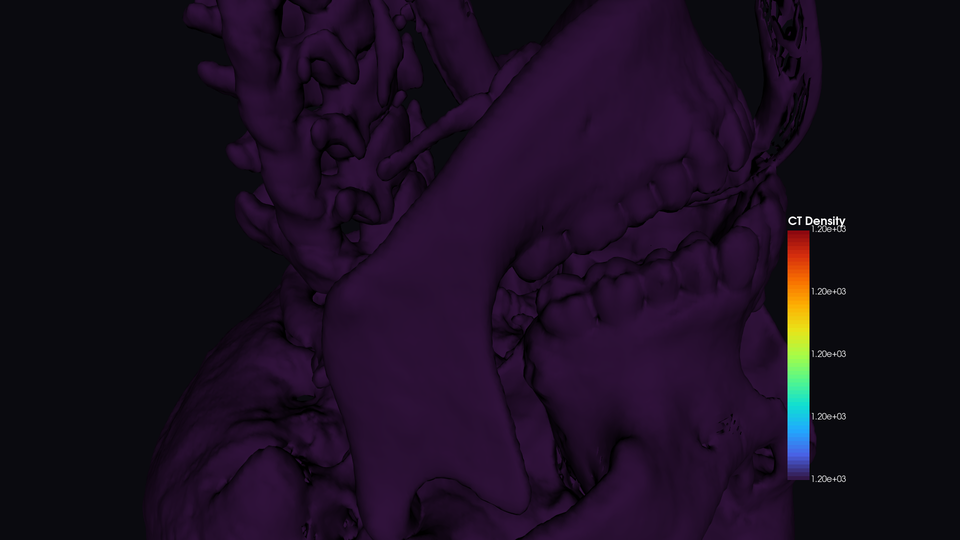
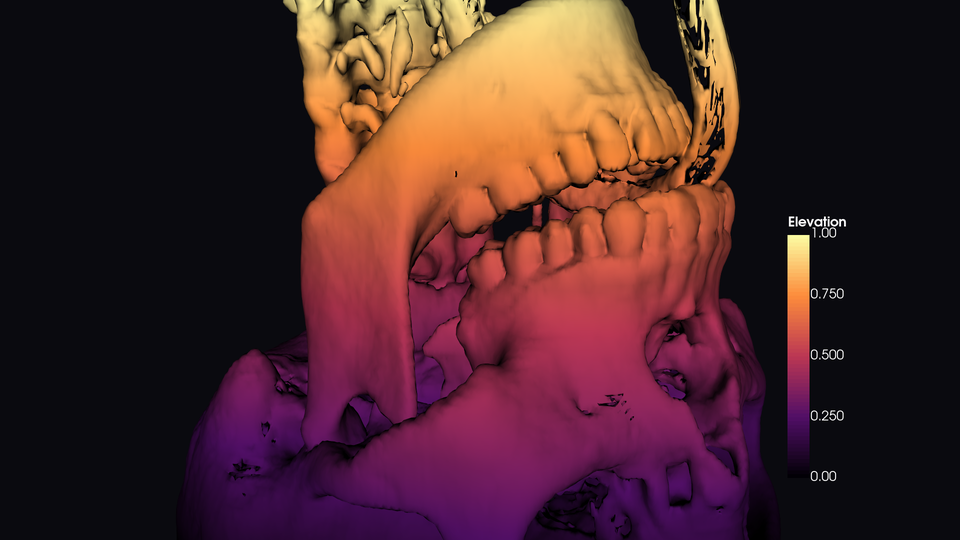
feat: add streamlines and clip showcases, improve CT skull render
- Add carotid blood flow streamlines with tube filter (Turbo colormap)
- Add Armadillo clip at X-plane with Viridis elevation gradient
- Improve CT skull: Elevation + Inferno instead of flat CT density
- Remove weak cfd_temperature render (nearly all blue)
- Update generate_showcase.py with carotid.vtk and Armadillo.ply datasets
- Showcase now covers 5 tools: render, contour, streamlines, clip, slice

diff --git a/scripts/generate_showcase.py b/scripts/generate_showcase.py
@@ -23,103 +23,17 @@ VTK_DATA_URL = "https://raw.githubusercontent.com/pyvista/vtk-data/master/Data"
 # Files to download
 DATA_FILES = [
     "cow.vtp",
-    "bunny.ply",
     "dragon.ply",
     "head.vti",
     "disk_out_ref_surface.vtp",
-    "Human.vtp",
+    "carotid.vtk",
+    "Armadillo.ply",
 ]
 
 # Each render is a standalone Python snippet executed in its own process.
 
 RENDERS: dict[str, str] = {
-    # 1. CFD: disk_out_ref temperature field
-    "cfd_temperature": textwrap.dedent("""\
-        import vtk
-        from parapilot.engine.filters import apply_filter
-        from parapilot.engine.renderer import RenderConfig, render_to_png
-        from parapilot.engine.camera import CameraConfig
-
-        reader = vtk.vtkXMLPolyDataReader()
-        reader.SetFileName(DATA_DIR + '/disk_out_ref_surface.vtp')
-        reader.Update()
-        data = reader.GetOutput()
-
-        cam = CameraConfig(position=(25.0, 20.0, 28.0), focal_point=(0, 0, 0), view_up=(0, 0, 1))
-        cfg = RenderConfig(
-            width=1920, height=1080, background=(0.04, 0.04, 0.06),
-            colormap='cool to warm', array_name='Temp',
-            show_scalar_bar=True, scalar_bar_title='Temperature',
-        )
-        PNG = render_to_png(data, cfg, cam)
-    """),
-
-    # 2. CFD: disk_out_ref pressure field
-    "cfd_pressure": textwrap.dedent("""\
-        import vtk
-        from parapilot.engine.filters import apply_filter
-        from parapilot.engine.renderer import RenderConfig, render_to_png
-        from parapilot.engine.camera import CameraConfig
-
-        reader = vtk.vtkXMLPolyDataReader()
-        reader.SetFileName(DATA_DIR + '/disk_out_ref_surface.vtp')
-        reader.Update()
-        data = reader.GetOutput()
-
-        cam = CameraConfig(position=(-22.0, 24.0, 22.0), focal_point=(0, 0, 0), view_up=(0, 0, 1))
-        cfg = RenderConfig(
-            width=1920, height=1080, background=(0.04, 0.04, 0.06),
-            colormap='viridis', array_name='Pres',
-            show_scalar_bar=True, scalar_bar_title='Pressure',
-        )
-        PNG = render_to_png(data, cfg, cam)
-    """),
-
-    # 3. Medical: head CT slice
-    "ct_head_slice": textwrap.dedent("""\
-        import vtk
-        from parapilot.engine.filters import apply_filter
-        from parapilot.engine.renderer import RenderConfig, render_to_png
-        from parapilot.engine.camera import CameraConfig
-
-        reader = vtk.vtkXMLImageDataReader()
-        reader.SetFileName(DATA_DIR + '/head.vti')
-        reader.Update()
-        data = reader.GetOutput()
-
-        sliced = apply_filter(data, 'slice', origin=[128, 128, 93], normal=[0, 0, 1])
-        cam = CameraConfig(position=(128, 128, 400), focal_point=(128, 128, 93), view_up=(0, 1, 0))
-        cfg = RenderConfig(
-            width=1920, height=1080, background=(0.04, 0.04, 0.06),
-            colormap='grayscale', array_name='Scalars_',
-            show_scalar_bar=True, scalar_bar_title='CT Density',
-        )
-        PNG = render_to_png(sliced, cfg, cam)
-    """),
-
-    # 4. Medical: head CT contour (skull isosurface)
-    "ct_head_contour": textwrap.dedent("""\
-        import vtk
-        from parapilot.engine.filters import apply_filter
-        from parapilot.engine.renderer import RenderConfig, render_to_png
-        from parapilot.engine.camera import CameraConfig
-
-        reader = vtk.vtkXMLImageDataReader()
-        reader.SetFileName(DATA_DIR + '/head.vti')
-        reader.Update()
-        data = reader.GetOutput()
-
-        contoured = apply_filter(data, 'contour', array_name='Scalars_', values=[1200])
-        cam = CameraConfig(position=(350, 200, 250), focal_point=(128, 128, 93), view_up=(0, 0, 1))
-        cfg = RenderConfig(
-            width=1920, height=1080, background=(0.04, 0.04, 0.06),
-            colormap='turbo', array_name='Scalars_',
-            show_scalar_bar=True, scalar_bar_title='CT Density',
-        )
-        PNG = render_to_png(contoured, cfg, cam)
-    """),
-
-    # 5. Geometry: Stanford Dragon with Elevation
+    # 1. Geometry: Stanford Dragon with Elevation (FEATURED)
     "dragon": textwrap.dedent("""\
         import vtk
         from parapilot.engine.renderer import RenderConfig, render_to_png
@@ -150,7 +64,156 @@ RENDERS: dict[str, str] = {
         PNG = render_to_png(elev.GetOutput(), cfg, cam)
     """),
 
-    # 6. Geometry: Cow with Elevation
+    # 2. Medical: CT skull isosurface with Inferno + Elevation
+    "ct_head_contour": textwrap.dedent("""\
+        import vtk
+        from parapilot.engine.filters import apply_filter
+        from parapilot.engine.renderer import RenderConfig, render_to_png
+        from parapilot.engine.camera import CameraConfig
+
+        reader = vtk.vtkXMLImageDataReader()
+        reader.SetFileName(DATA_DIR + '/head.vti')
+        reader.Update()
+        data = reader.GetOutput()
+
+        contoured = apply_filter(data, 'contour', array_name='Scalars_', values=[1200])
+        norms = vtk.vtkPolyDataNormals()
+        norms.SetInputData(contoured)
+        norms.ComputePointNormalsOn()
+        norms.SplittingOff()
+        norms.Update()
+
+        elev = vtk.vtkElevationFilter()
+        elev.SetInputConnection(norms.GetOutputPort())
+        b = contoured.GetBounds()
+        elev.SetLowPoint(0, 0, b[4])
+        elev.SetHighPoint(0, 0, b[5])
+        elev.Update()
+
+        cam = CameraConfig(position=(350, 350, 180), focal_point=(128, 128, 93), view_up=(0, 0, 1))
+        cfg = RenderConfig(
+            width=1920, height=1080, background=(0.04, 0.04, 0.06),
+            colormap='inferno', array_name='Elevation',
+            show_scalar_bar=True, scalar_bar_title='Elevation',
+        )
+        PNG = render_to_png(elev.GetOutput(), cfg, cam)
+    """),
+
+    # 3. Flow: Carotid blood flow streamlines with tubes
+    "streamlines": textwrap.dedent("""\
+        import vtk
+        from parapilot.engine.filters import streamlines
+        from parapilot.engine.renderer import RenderConfig, render_to_png
+        from parapilot.engine.camera import CameraConfig
+
+        reader = vtk.vtkStructuredPointsReader()
+        reader.SetFileName(DATA_DIR + '/carotid.vtk')
+        reader.Update()
+        data = reader.GetOutput()
+
+        lines = streamlines(
+            data, array_name='vectors',
+            seed_point1=(120, 90, 15), seed_point2=(150, 120, 35),
+            num_seeds=80, integration_direction='both',
+        )
+
+        calc = vtk.vtkArrayCalculator()
+        calc.SetInputData(lines)
+        calc.AddVectorArrayName('vectors')
+        calc.SetFunction('mag(vectors)')
+        calc.SetResultArrayName('VelocityMag')
+        calc.Update()
+
+        tube = vtk.vtkTubeFilter()
+        tube.SetInputConnection(calc.GetOutputPort())
+        tube.SetRadius(0.3)
+        tube.SetNumberOfSides(12)
+        tube.CappingOn()
+        tube.Update()
+
+        cam = CameraConfig(position=(180, 80, 60), focal_point=(137, 104, 23), view_up=(0, 0, 1))
+        cfg = RenderConfig(
+            width=1920, height=1080, background=(0.04, 0.04, 0.06),
+            colormap='turbo', array_name='VelocityMag',
+            show_scalar_bar=True, scalar_bar_title='Velocity Magnitude',
+        )
+        PNG = render_to_png(tube.GetOutput(), cfg, cam)
+    """),
+
+    # 4. Geometry: Armadillo clipped at X-plane
+    "armadillo_clip": textwrap.dedent("""\
+        import vtk
+        from parapilot.engine.filters import clip_plane
+        from parapilot.engine.renderer import RenderConfig, render_to_png
+        from parapilot.engine.camera import CameraConfig
+
+        reader = vtk.vtkPLYReader()
+        reader.SetFileName(DATA_DIR + '/Armadillo.ply')
+        reader.Update()
+
+        norms = vtk.vtkPolyDataNormals()
+        norms.SetInputData(reader.GetOutput())
+        norms.ComputePointNormalsOn()
+        norms.Update()
+
+        elev = vtk.vtkElevationFilter()
+        elev.SetInputConnection(norms.GetOutputPort())
+        b = reader.GetOutput().GetBounds()
+        elev.SetLowPoint(0, b[2], 0)
+        elev.SetHighPoint(0, b[3], 0)
+        elev.Update()
+
+        clipped = clip_plane(elev.GetOutput(), origin=(5, 0, 0), normal=(1, 0, 0))
+        cam = CameraConfig(position=(-180, 60, 180), focal_point=(0, 20, 0), view_up=(0, 1, 0))
+        cfg = RenderConfig(
+            width=1920, height=1080, background=(0.04, 0.04, 0.06),
+            colormap='viridis', array_name='Elevation',
+            show_scalar_bar=True, scalar_bar_title='Elevation',
+        )
+        PNG = render_to_png(clipped, cfg, cam)
+    """),
+
+    # 5. CFD: disk_out_ref pressure field
+    "cfd_pressure": textwrap.dedent("""\
+        import vtk
+        from parapilot.engine.renderer import RenderConfig, render_to_png
+        from parapilot.engine.camera import CameraConfig
+
+        reader = vtk.vtkXMLPolyDataReader()
+        reader.SetFileName(DATA_DIR + '/disk_out_ref_surface.vtp')
+        reader.Update()
+
+        cam = CameraConfig(position=(-22.0, 24.0, 22.0), focal_point=(0, 0, 0), view_up=(0, 0, 1))
+        cfg = RenderConfig(
+            width=1920, height=1080, background=(0.04, 0.04, 0.06),
+            colormap='viridis', array_name='Pres',
+            show_scalar_bar=True, scalar_bar_title='Pressure',
+        )
+        PNG = render_to_png(reader.GetOutput(), cfg, cam)
+    """),
+
+    # 6. Medical: head CT axial slice
+    "ct_head_slice": textwrap.dedent("""\
+        import vtk
+        from parapilot.engine.filters import apply_filter
+        from parapilot.engine.renderer import RenderConfig, render_to_png
+        from parapilot.engine.camera import CameraConfig
+
+        reader = vtk.vtkXMLImageDataReader()
+        reader.SetFileName(DATA_DIR + '/head.vti')
+        reader.Update()
+
+        sliced = apply_filter(reader.GetOutput(), 'slice', origin=[128, 128, 93], normal=[0, 0, 1])
+        cam = CameraConfig(position=(128, 128, 400), focal_point=(128, 128, 93), view_up=(0, 1, 0))
+        cfg = RenderConfig(
+            width=1920, height=1080, background=(0.04, 0.04, 0.06),
+            colormap='grayscale', array_name='Scalars_',
+            show_scalar_bar=True, scalar_bar_title='CT Density',
+        )
+        PNG = render_to_png(sliced, cfg, cam)
+    """),
+
+    # 7. Geometry: VTK Cow with Elevation
     "cow": textwrap.dedent("""\
         import vtk
         from parapilot.engine.renderer import RenderConfig, render_to_png
@@ -241,7 +304,6 @@ def run_render(name: str, code: str) -> bool:
         err = result.stderr.strip().splitlines()[-1] if result.stderr else "unknown"
         print(f"  FAIL: {err}")
         if result.stderr:
-            # Print last 5 lines for debugging
             for line in result.stderr.strip().splitlines()[-5:]:
                 print(f"    {line}")
         return False
